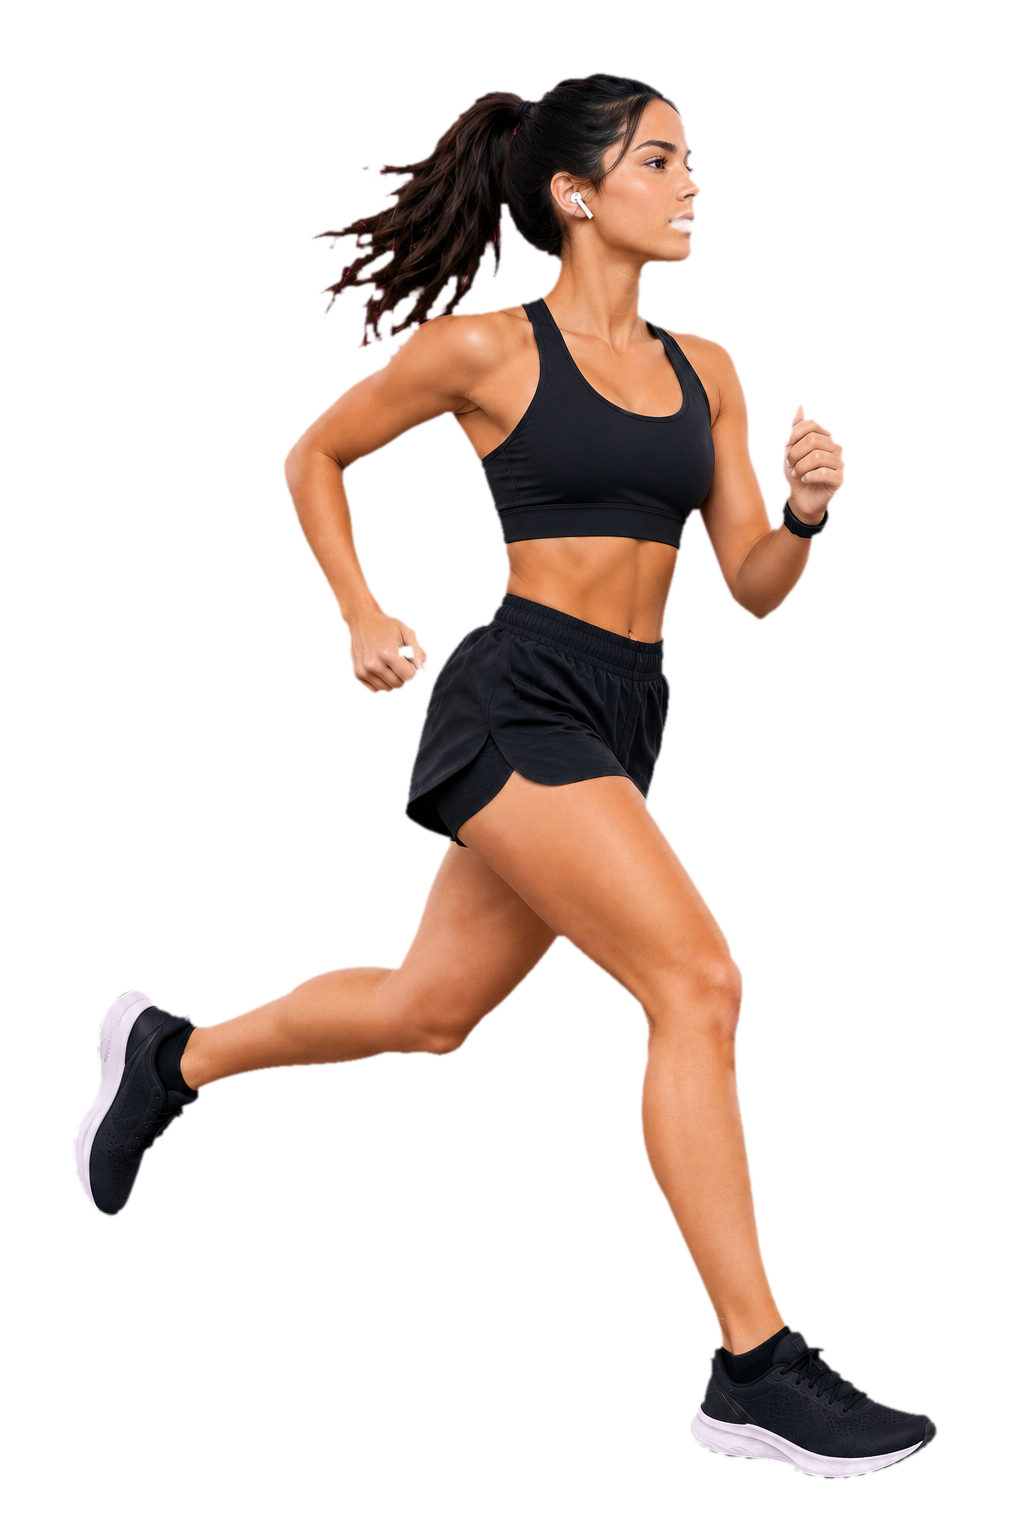
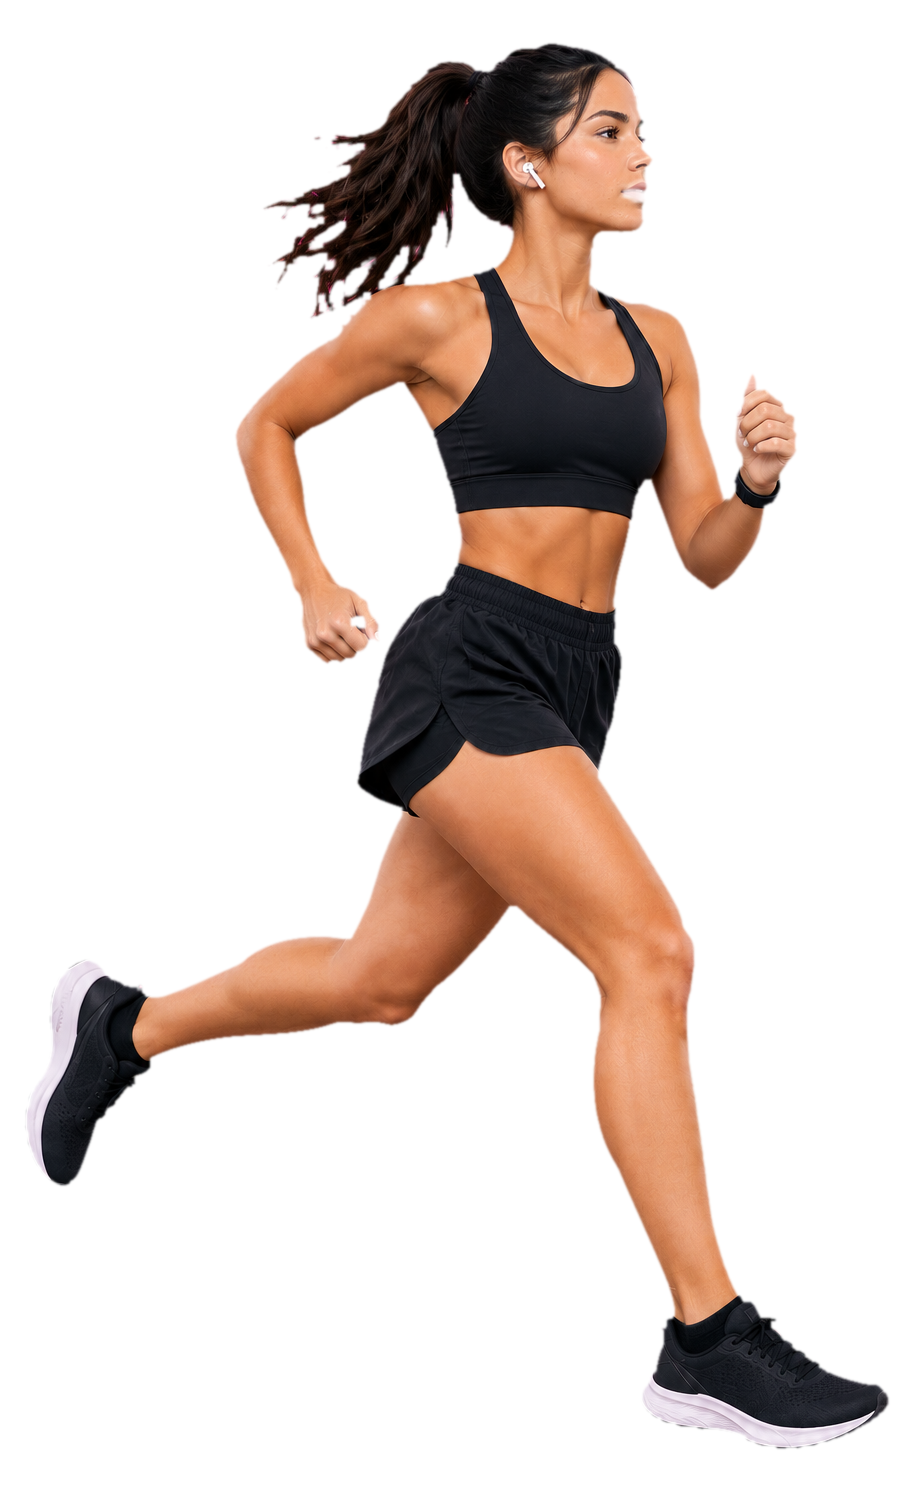
new test

diff --git a/src/index.css b/src/index.css
@@ -533,11 +533,11 @@ h1, h2, h3, h4 {
 }
 
 .gender-banner-m .gender-photo {
-  right: -2%;
+  right: -8%;
 }
 
 .gender-banner-f .gender-photo {
-  left: -2%;
+  left: -6%;
 }
 
 .gender-banner-revealed .gender-photo {
@@ -1355,7 +1355,92 @@ input:focus {
     cursor: pointer;
   }
   .product-grid {
-    grid-template-columns: 1fr;
+    grid-template-columns: repeat(3, 1fr);
+    gap: 10px 8px;
+  }
+  .corner-tag {
+    width: 26px;
+    height: 26px;
+  }
+  .code-tag {
+    display: none;
+  }
+  .category-tag {
+    display: none;
+  }
+  .discount-badge {
+    top: 6px;
+    left: 6px;
+    font-size: 9px;
+    padding: 2px 5px;
+  }
+  .favorite-btn {
+    width: 22px;
+    height: 22px;
+    bottom: 6px;
+    right: 6px;
+  }
+  .favorite-btn svg {
+    width: 11px;
+    height: 11px;
+  }
+  .product-info {
+    padding: 8px 6px 12px;
+    flex-direction: column;
+    gap: 4px;
+  }
+  .product-info h3 {
+    font-size: 11px;
+    line-height: 1.25;
+    margin-bottom: 2px;
+  }
+  .product-info .spec {
+    display: none;
+  }
+  .product-side {
+    text-align: left;
+  }
+  .price-original {
+    font-size: 10px;
+    margin-bottom: 0;
+  }
+  .price {
+    font-size: 12px;
+    margin-bottom: 0;
+  }
+  .product-overlay {
+    padding: 10px;
+  }
+  .overlay-name {
+    font-size: 12px;
+    margin-bottom: 4px;
+  }
+  .overlay-price {
+    font-size: 11px;
+    margin-bottom: 6px;
+  }
+  .overlay-price-original {
+    font-size: 9px;
+  }
+  .overlay-material,
+  .overlay-desc {
+    display: none;
+  }
+  .overlay-label {
+    font-size: 8px;
+    margin-bottom: 4px;
+  }
+  .size-row {
+    gap: 3px;
+    margin-bottom: 8px;
+  }
+  .size-btn {
+    font-size: 8px;
+    padding: 4px 6px;
+  }
+  .overlay-add-btn {
+    font-size: 9px;
+    padding: 8px;
   }
   .hero {
     padding: 50px 20px 40px;
